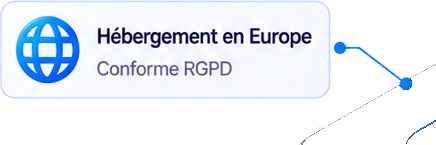
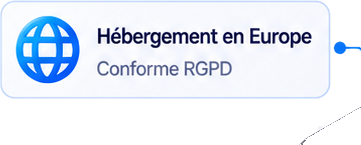
Hero : socle d'un seul tenant, plus aucune coupe dans le nuage ni le boitier

diff --git a/divprotocol-refonte/index.html b/divprotocol-refonte/index.html
@@ -548,34 +548,30 @@ button{font:inherit;color:inherit;background:none;border:0;cursor:pointer}
   <div class="stage rv d3" id="stage">
     <div class="scene" id="scene" role="img"
          aria-label="Illustration DIV Protocol : un dossier, un document, une vidéo et une image flottent au-dessus d'un nuage, d'une plateforme d'hébergement européenne et du boîtier chiffré qui les absorbe.">
-      <img class="ly" data-k="box" src="hero/box.png" alt="" aria-hidden="true" loading="eager" decoding="async"
-           style="left:16.6395%;top:54.6376%;width:67.863%;z-index:1">
-      <img class="ly" data-k="plat" src="hero/plat.png" alt="" aria-hidden="true" loading="eager" decoding="async"
-           style="left:33.3605%;top:49.961%;width:32.8711%;z-index:2">
-      <img class="ly" data-k="cloud" src="hero/cloud.png" alt="" aria-hidden="true" loading="eager" decoding="async"
-           style="left:38.0098%;top:41.6212%;width:23.4095%;z-index:3">
-      <img class="ly" data-k="misc" src="hero/misc.png" alt="" aria-hidden="true" loading="eager" decoding="async"
-           style="left:16.3132%;top:7.3266%;width:63.2953%;z-index:4">
-      <img class="ly" data-k="doc" src="hero/doc.png" alt="" aria-hidden="true" loading="eager" decoding="async"
-           style="left:35.8075%;top:18.4723%;width:11.0114%;z-index:5">
-      <img class="ly" data-k="video" src="hero/video.png" alt="" aria-hidden="true" loading="eager" decoding="async"
-           style="left:31.5661%;top:32.424%;width:11.1746%;z-index:6">
-      <img class="ly" data-k="image" src="hero/image.png" alt="" aria-hidden="true" loading="eager" decoding="async"
-           style="left:57.0962%;top:25.721%;width:11.5008%;z-index:7">
-      <img class="ly" data-k="folder" src="hero/folder.png" alt="" aria-hidden="true" loading="eager" decoding="async"
-           style="left:41.5987%;top:6.5472%;width:18.7602%;z-index:8">
-      <img class="ly" data-k="pill1" src="hero/pill1.png" alt="" aria-hidden="true" loading="eager" decoding="async"
-           style="left:3.2626%;top:11.0678%;width:26.6721%;z-index:10">
-      <img class="ly" data-k="pill2" src="hero/pill2.png" alt="" aria-hidden="true" loading="eager" decoding="async"
-           style="left:64.845%;top:4.4427%;width:32.0555%;z-index:11">
-      <img class="ly" data-k="pill3" src="hero/pill3.png" alt="" aria-hidden="true" loading="eager" decoding="async"
-           style="left:68.7602%;top:24.3959%;width:28.7928%;z-index:12">
-      <img class="ly" data-k="pill4" src="hero/pill4.png" alt="" aria-hidden="true" loading="eager" decoding="async"
-           style="left:3.2626%;top:33.2814%;width:27.4062%;z-index:13">
-      <img class="ly" data-k="pill5" src="hero/pill5.png" alt="" aria-hidden="true" loading="eager" decoding="async"
-           style="left:61.9086%;top:46.9992%;width:35.6444%;z-index:14">
-      <img class="ly" data-k="pill6" src="hero/pill6.png" alt="" aria-hidden="true" loading="eager" decoding="async"
-           style="left:2.7732%;top:61.5744%;width:35.5628%;z-index:15">
+      <img class="ly" data-k="base" src="hero/base.png?v=5" alt="" aria-hidden="true" decoding="async"
+           style="left:16.6395%;top:41.6212%;width:67.863%;z-index:1">
+      <img class="ly" data-k="misc" src="hero/misc.png?v=5" alt="" aria-hidden="true" decoding="async"
+           style="left:16.3132%;top:7.3266%;width:63.2953%;z-index:2">
+      <img class="ly" data-k="doc" src="hero/doc.png?v=5" alt="" aria-hidden="true" decoding="async"
+           style="left:35.8075%;top:18.4723%;width:11.0114%;z-index:3">
+      <img class="ly" data-k="video" src="hero/video.png?v=5" alt="" aria-hidden="true" decoding="async"
+           style="left:31.5661%;top:32.424%;width:11.1746%;z-index:4">
+      <img class="ly" data-k="image" src="hero/image.png?v=5" alt="" aria-hidden="true" decoding="async"
+           style="left:57.0962%;top:25.721%;width:11.5008%;z-index:5">
+      <img class="ly" data-k="folder" src="hero/folder.png?v=5" alt="" aria-hidden="true" decoding="async"
+           style="left:41.5987%;top:6.5472%;width:18.7602%;z-index:6">
+      <img class="ly" data-k="pill1" src="hero/pill1.png?v=5" alt="" aria-hidden="true" decoding="async"
+           style="left:3.2626%;top:11.0678%;width:26.6721%;z-index:8">
+      <img class="ly" data-k="pill2" src="hero/pill2.png?v=5" alt="" aria-hidden="true" decoding="async"
+           style="left:64.845%;top:4.4427%;width:32.0555%;z-index:9">
+      <img class="ly" data-k="pill3" src="hero/pill3.png?v=5" alt="" aria-hidden="true" decoding="async"
+           style="left:68.7602%;top:24.3959%;width:28.7928%;z-index:10">
+      <img class="ly" data-k="pill4" src="hero/pill4.png?v=5" alt="" aria-hidden="true" decoding="async"
+           style="left:3.2626%;top:33.2814%;width:27.4062%;z-index:11">
+      <img class="ly" data-k="pill5" src="hero/pill5.png?v=5" alt="" aria-hidden="true" decoding="async"
+           style="left:61.9086%;top:46.9992%;width:35.6444%;z-index:12">
+      <img class="ly" data-k="pill6" src="hero/pill6.png?v=5" alt="" aria-hidden="true" decoding="async"
+           style="left:2.7732%;top:61.5744%;width:29.4454%;z-index:13">
       <span class="bloom" aria-hidden="true"></span>
     </div>
   </div>

diff --git a/divprotocol-refonte/hero-anim.js b/divprotocol-refonte/hero-anim.js
@@ -21,9 +21,8 @@
 
   /* profondeur (parallaxe), amplitude et période de la dérive au repos */
   var CFG = {
-    box:    { d: 0.10, amp: 0,  per: 0,   mode: "box"  },
-    plat:   { d: 0.17, amp: 5,  per: 5.5, mode: "plat" },
-    cloud:  { d: 0.27, amp: 10, per: 4.6, mode: "cloud" },
+    /* socle : nuage + plateforme + boîtier, d'un seul tenant */
+    base:   { d: 0.09, amp: 0,  per: 0,   mode: "box"  },
     misc:   { d: 0.12, amp: 0,  per: 0,   mode: "pin", side: 0 },
     doc:    { d: 0.34, amp: 11, per: 5.2, rot:  1.3, mode: "file" },
     video:  { d: 0.41, amp: 13, per: 4.4, rot: -1.5, mode: "file" },
@@ -37,11 +36,11 @@
     pill6:  { d: 0.24, amp: 6,  per: 6.4, mode: "pin", side: -1 }
   };
   /* ordre d'apparition : du fond vers l'avant */
-  var ORDER = ["box","plat","cloud","misc","folder","doc","video","image",
+  var ORDER = ["base","misc","folder","doc","video","image",
                "pill1","pill2","pill3","pill4","pill5","pill6"];
 
   var items = layers.map(function (el) {
-    var k = el.dataset.k, c = CFG[k] || CFG.box;
+    var k = el.dataset.k, c = CFG[k] || CFG.base;
     var cs = el.style;
     return {
       el: el, k: k, c: c,
@@ -120,21 +119,13 @@
         sc *= 1 - 0.94 * k;
         rot = (reduce ? 0 : Math.sin(t * 0.55 + it.ph) * (c.rot || 0) * (1 - k)) + k * 26;
         op *= 1 - Math.pow(k, 1.6);
-      } else if (c.mode === "cloud") {
-        ty -= H * 0.14 * e;
-        sc *= 1 - 0.45 * e;
-        op *= 1 - e;
-      } else if (c.mode === "plat") {
-        ty += it.dy / 100 * H * 0.82 * e;
-        sc *= 1 - 0.28 * e;
-        op *= 1 - e;
       } else if (c.mode === "pin") {
         tx += (c.side || 0) * 40 * q;
         ty += 10 * q;
         op *= 1 - q;
-      } else {            /* le boîtier encaisse */
-        sc *= 1 + 0.014 * pulse;
-        ty += 5 * pulse;
+      } else {            /* le socle encaisse l'absorption */
+        sc *= 1 + 0.018 * pulse;
+        ty += 7 * pulse;
       }
 
       it.el.style.transform = "translate3d(" + tx.toFixed(2) + "px," + ty.toFixed(2) + "px,0) rotate(" + rot.toFixed(2) + "deg) scale(" + sc.toFixed(4) + ")";
